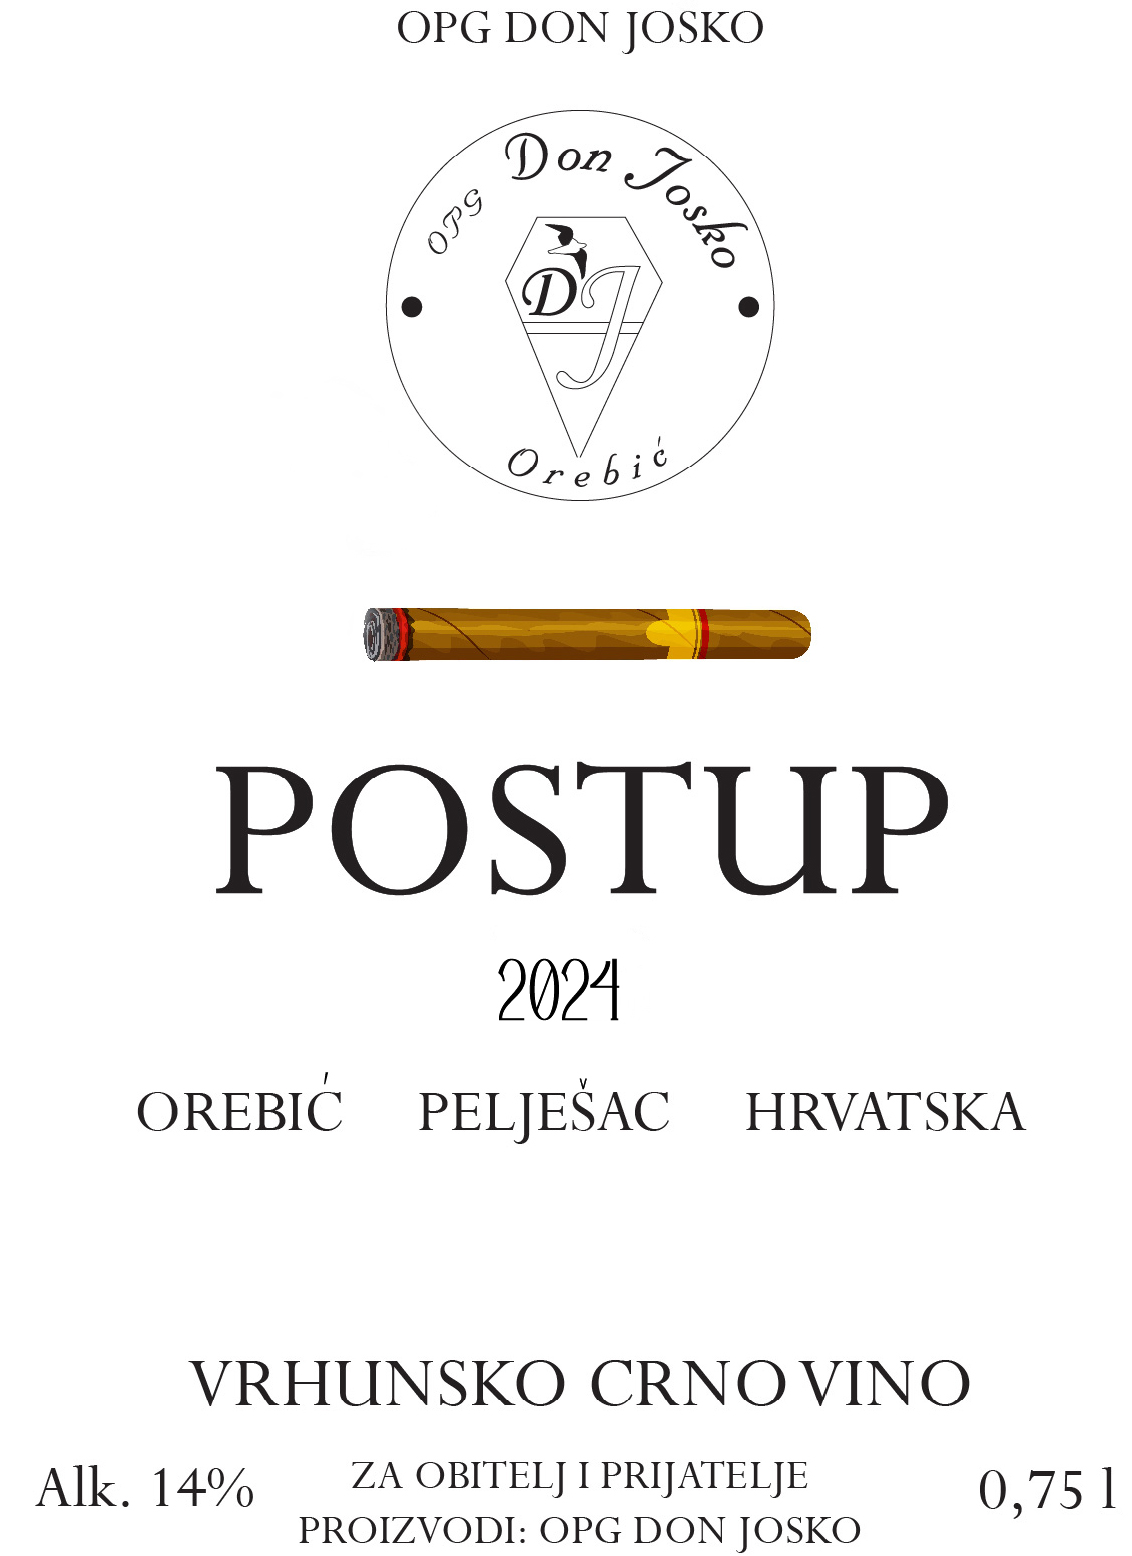
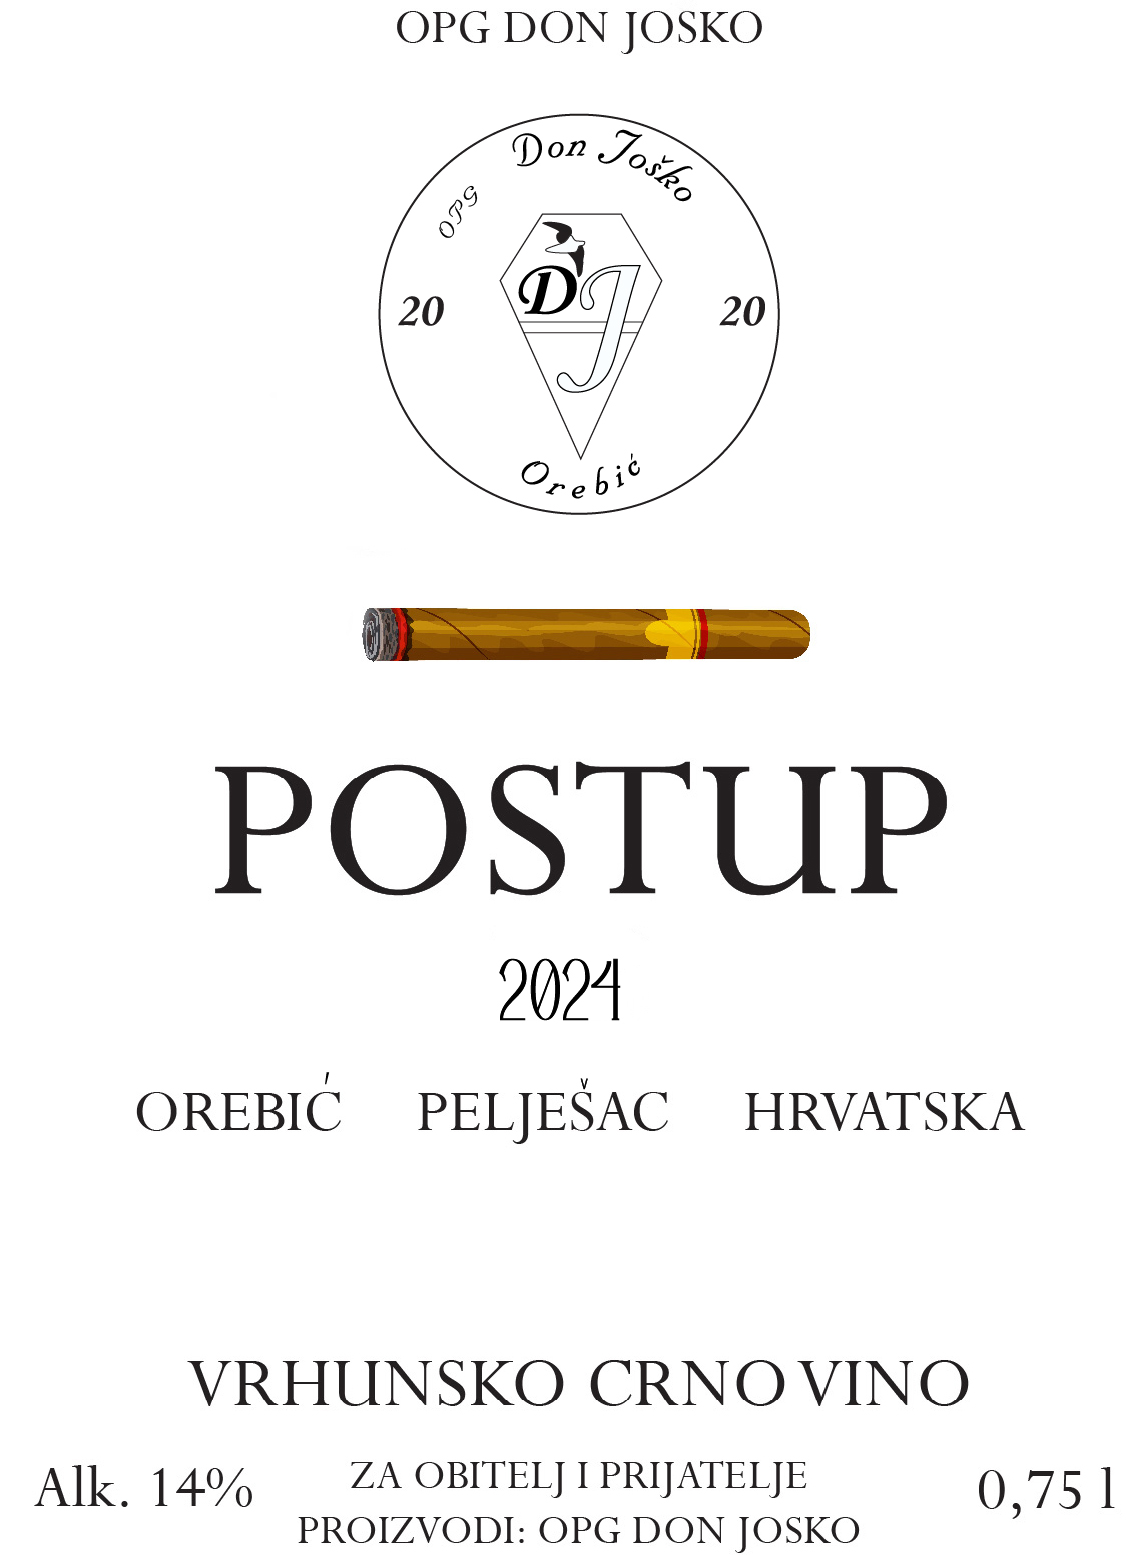
Add files via upload

diff --git a/index.html b/index.html
@@ -32,7 +32,7 @@
 
 <body>
 
-  <img src="postup2.jpg">
+  <img src= "postup2.jpg">
   <img src="jo.jpg">
 	
 </body>